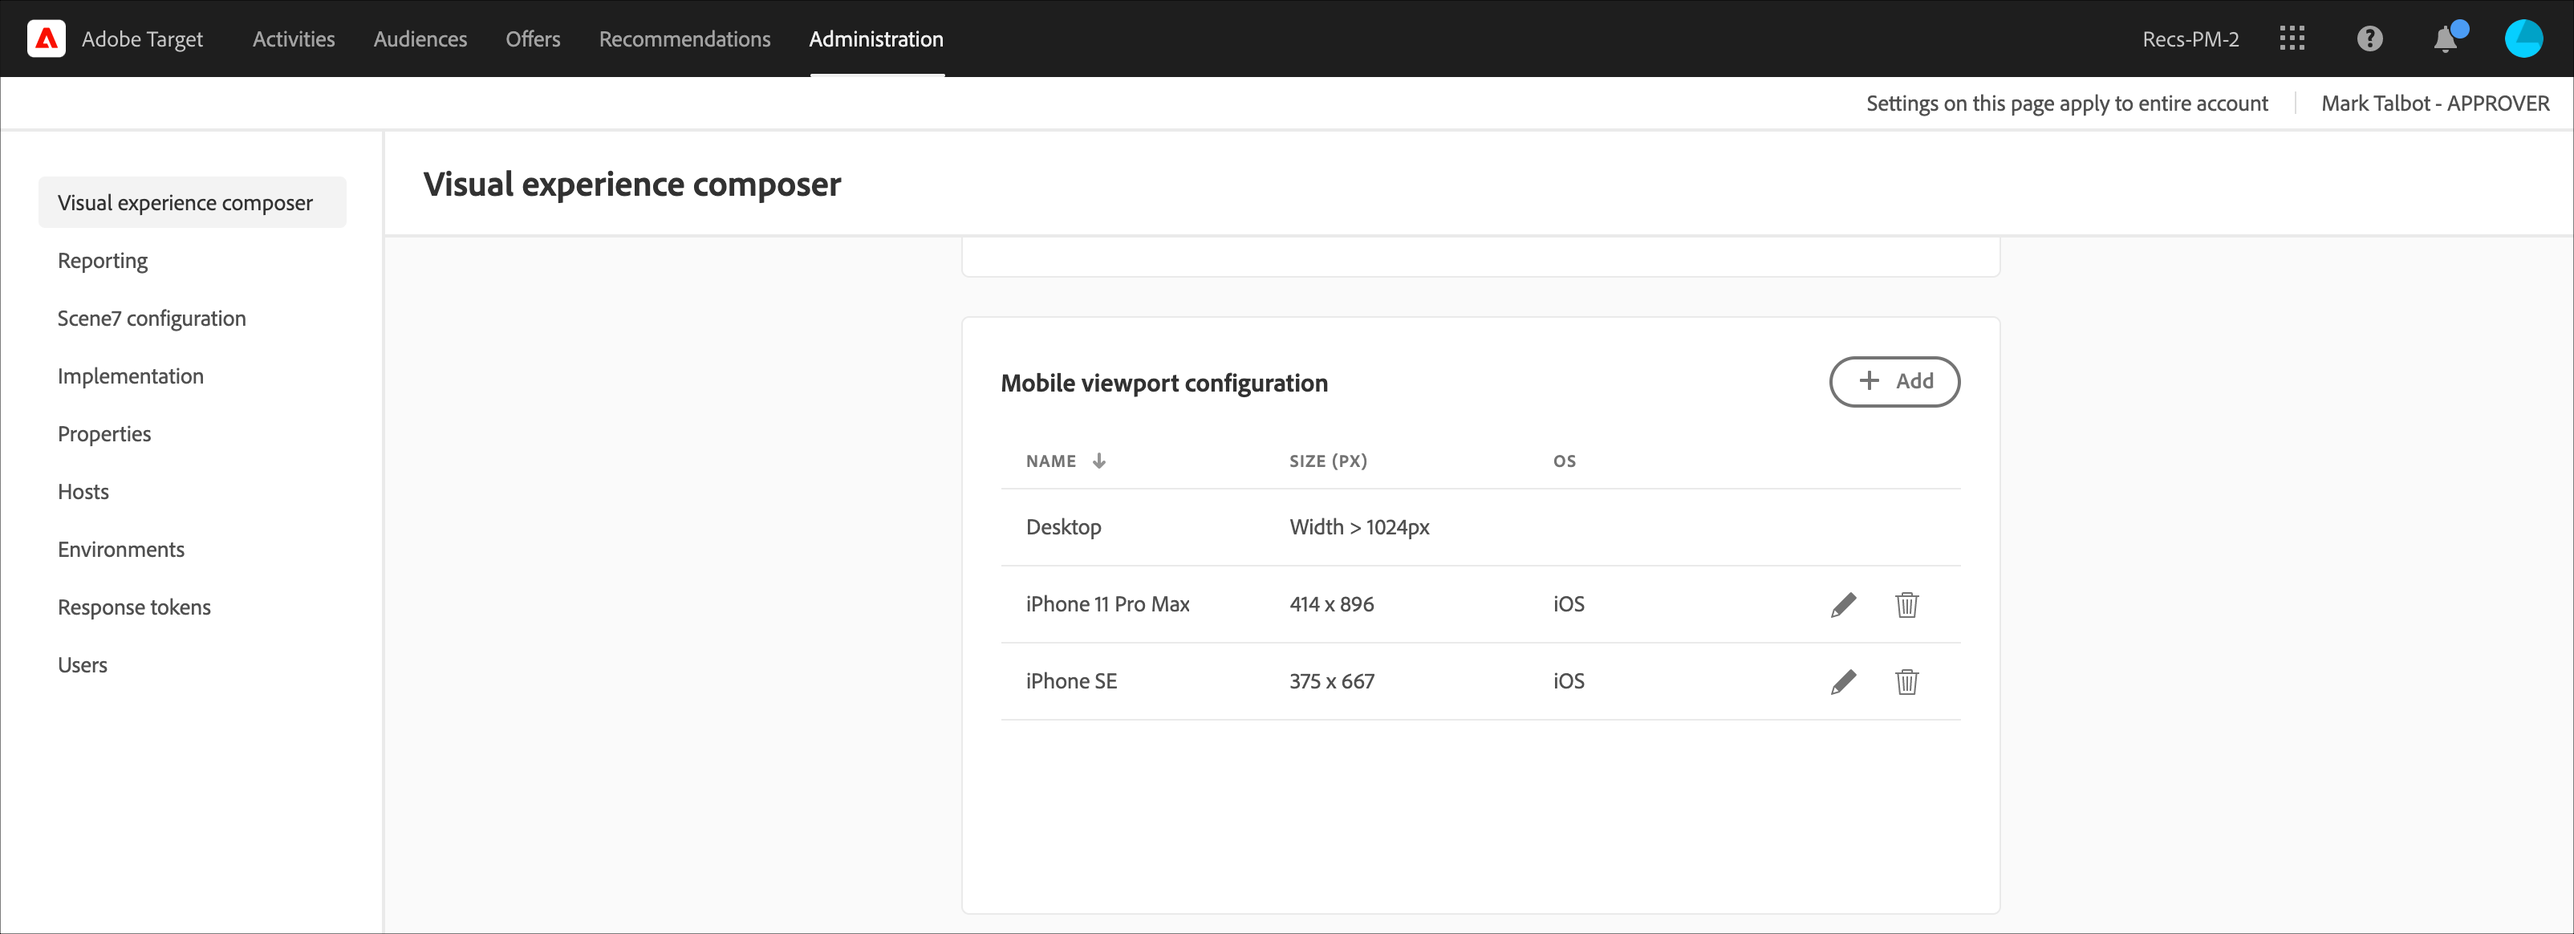
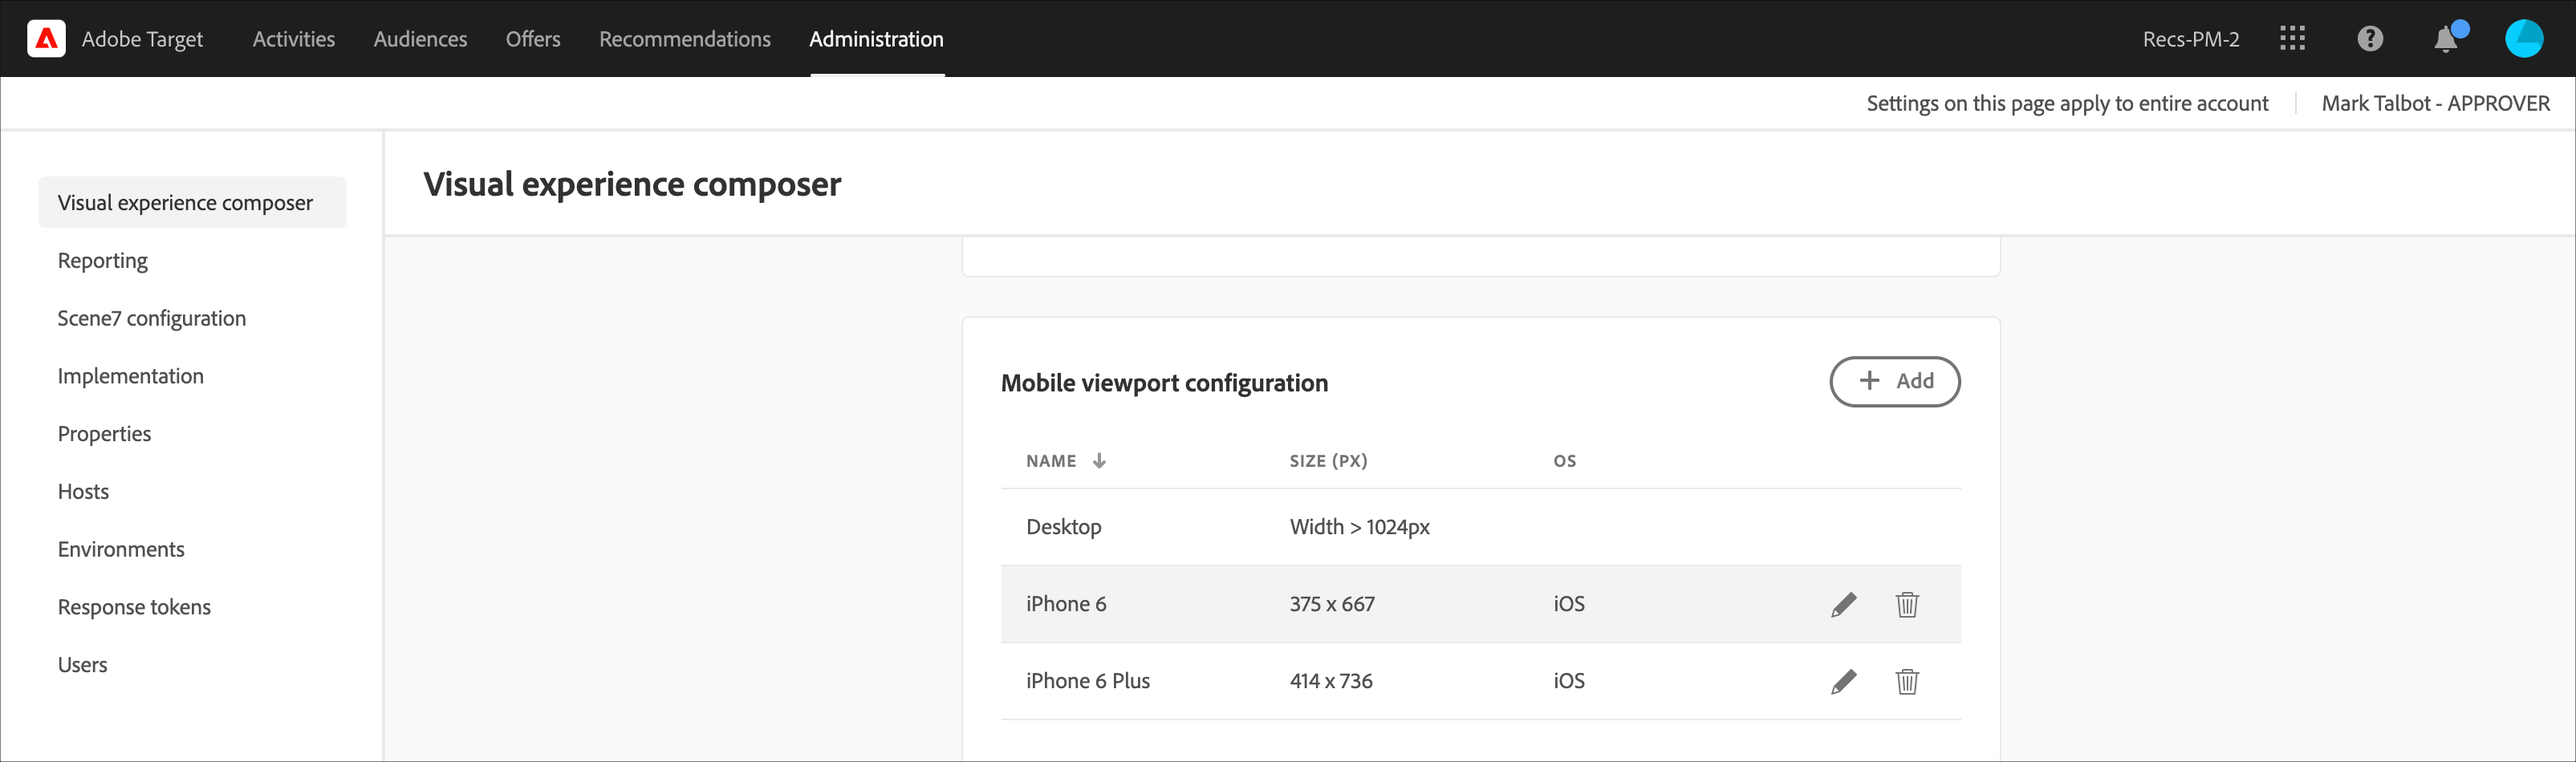
mobile viewports

diff --git a/help/c-experiences/c-visual-experience-composer/mobile-viewports.md b/help/c-experiences/c-visual-experience-composer/mobile-viewports.md
@@ -139,27 +139,27 @@ Add mobile viewports to your [!DNL Target] activities to create responsive exper
 
 ## Use Case: Target two iPhone versions {#task_CC3144BF5BA54034996E1D3DB0BC1A35}
 
-This use case shows how to configure experiences for two iPhone versions: iPhone 11 Pro Max and iPhone SE.
+This use case shows how to configure experiences for two iPhone versions: iPhone 6 and iPhone 6 Plus.
 
-1. In Target, click **[!UICONTROL Administration]**.
-1. In the **[!UICONTROL Mobile viewport configuration]** section, create mobile viewports for iPhone 11 Pro Max and iPhone SE.
+1. Click **[!UICONTROL Administration]** > **[!UICONTROL Visual Experience Composer]**.
+1. In the **[!UICONTROL Mobile Viewport Configuration]** section, create mobile viewports for iPhone 6 and iPhone 6 plus.
 
    Use the following settings for each viewport:
 
    |  Name  | Width  | Height  | Operating System  |
    |---|---|---|---|
-   |  iPhone 11 Pro Max  | 414  | 896  | iOS  |
-   |  iPhone SE  | 375  | 667  | iOS  |
+   |  iPhone 6  | 375  | 667  | iOS  |
+   |  iPhone 6 Plus  | 414  | 736  | iOS  |
 
    ![](assets/iphoneviewportconfig.png)
 
 1. Create an activity with the experience you would like to target.
-1. Select the experience you want to target to visitors who access your site from an iPhone 11 Pro Max or iPhone SE.
+1. Select the experience you want to target to visitors who access your site from an iPhone 6 or iPhone 6 Plus.
 1. When selecting your target, click **[!UICONTROL Create Audience]**, then configure an audience as shown in the image below:
 
    ![](assets/iphoneaudiences.png)
 
-   Because the phone could be rotated to landscape, requiring both height and width to be greater than 320 simultaneously creates a condition that only the iPhone 11 Pro Max and iPhone SE would be able to meet, when combined with the iPhone Device Model. 
+   Because the phone could be rotated to landscape, requiring both height and width to be greater than 320 simultaneously creates a condition that only the 6 and 6 Plus would be able to meet, when combined with the iPhone Device Model. 
 1. Click **[!UICONTROL Save]**.
 1. Continue setting up your activity as you normally would.
 
@@ -171,11 +171,11 @@ The following videos contain more information about the concepts discussed in th
 
 The following demo video includes information about using the Visual Experience composer to work with mobile viewports:
 
-* Rename and duplicate an experience 
-* Create a redirect experience 
-* Target an activity to a single URL or a group of URLs 
-* Create a multi-page activity 
-* Preview and build experience for responsive websites 
+* Rename and duplicate an experience
+* Create a redirect experience
+* Target an activity to a single URL or a group of URLs
+* Create a multi-page activity
+* Preview and build experience for responsive websites
 * Use overlays to highlight types of elements
 
 >[!VIDEO](https://video.tv.adobe.com/v/17401)
